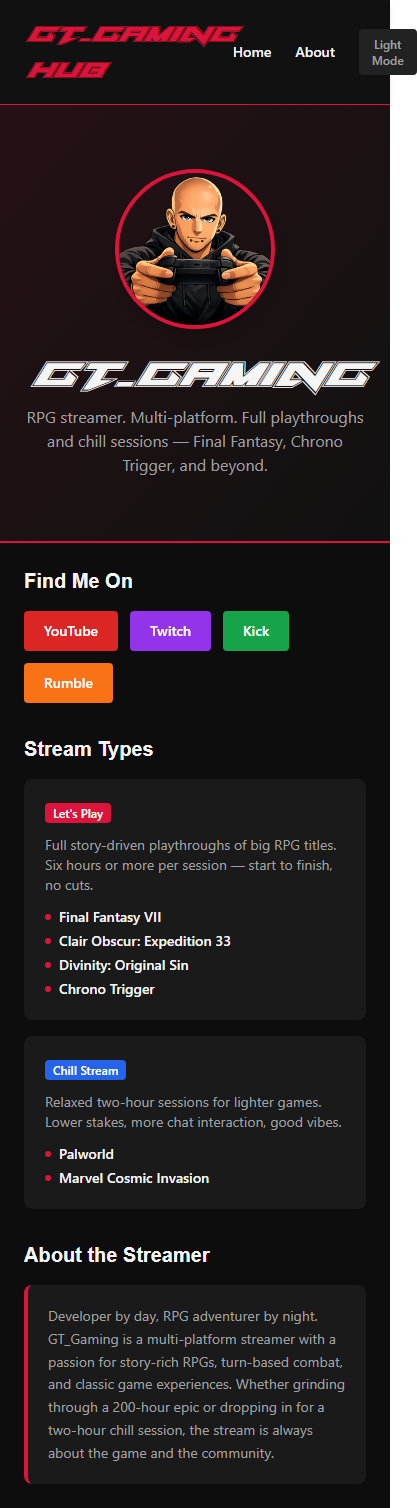
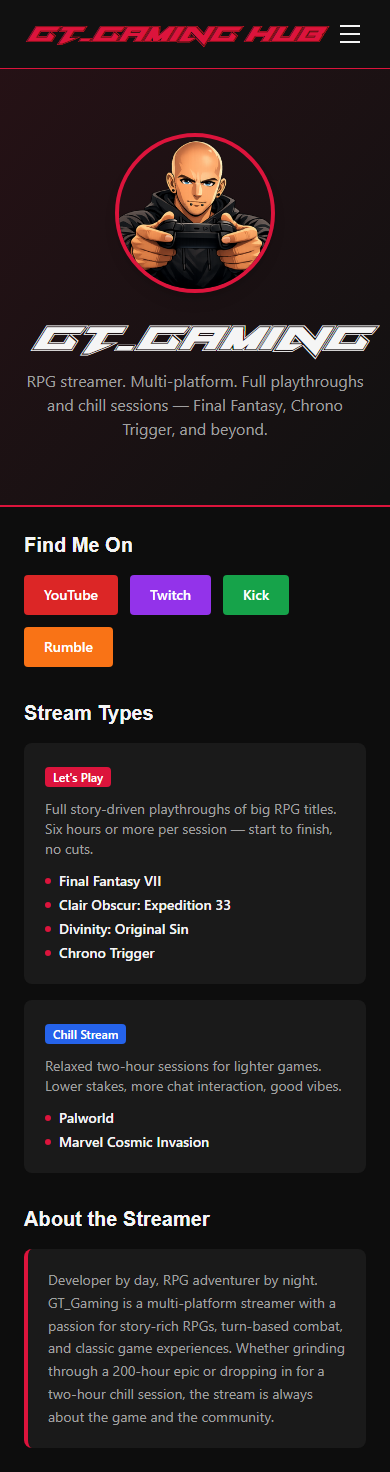
updated screenshots

Changed region(s): [[0.0308, 0.3438, 0.8923, 1.0], [0.0615, 0.0, 1.0, 1.0], [0.0615, 0.0, 0.8308, 0.0625]]

diff --git a/src/app/core/navbar/navbar.html b/src/app/core/navbar/navbar.html
@@ -1,27 +1,80 @@
 <!-- [CL-4.3] Accessibility: <nav> is a semantic landmark — screen readers expose it
      as a navigation region, allowing users to jump directly to it -->
-<nav class="flex items-center justify-between px-6 py-4
-            bg-background-nav dark:bg-background-nav-dark
+<nav class="bg-background-nav dark:bg-background-nav-dark
             text-textPrimary dark:text-textPrimary-dark
             transition-colors duration-300 shadow-md border-b border-primary">
 
-  <!-- Brand -->
-  <a routerLink="/"
-     class="text-3xl font-tarrget italic text-primary
-            hover:opacity-80 transition-opacity duration-200">
-    GT_Gaming Hub
-  </a>
+  <!-- Top bar: brand + desktop links + hamburger -->
+  <!-- [CL-1.2] Responsiveness: justify-between keeps brand and controls at opposite ends -->
+  <div class="flex items-center justify-between px-6 py-4">
 
-  <!-- Nav Links -->
-  <div class="flex items-center gap-6">
+    <!-- Brand -->
+    <a routerLink="/" (click)="closeMenu()"
+       class="text-3xl font-tarrget italic text-primary
+              hover:opacity-80 transition-opacity duration-200">
+      GT_Gaming Hub
+    </a>
+
+    <!-- Desktop nav links — hidden below sm breakpoint -->
+    <!-- [CL-1.2] Responsiveness: hidden on mobile, flex row on sm+ -->
+    <div class="hidden sm:flex items-center gap-6">
+
+      <a routerLink="/" routerLinkActive="text-primary font-bold" [routerLinkActiveOptions]="homeMatchOptions"
+         class="text-sm font-semibold transition-colors duration-200
+                text-textPrimary dark:text-textPrimary-dark hover:text-primary dark:hover:text-primary">
+        Home
+      </a>
+
+      <a routerLink="/about" routerLinkActive="text-primary font-bold"
+         class="text-sm font-semibold transition-colors duration-200
+                text-textPrimary dark:text-textPrimary-dark hover:text-primary dark:hover:text-primary">
+        About
+      </a>
+
+      <!-- Theme Toggle -->
+      <button (click)="toggleTheme()"
+              class="px-3 py-1.5 rounded text-xs font-semibold transition-colors duration-300
+                     bg-surface text-textSecondary-dark hover:border-primary
+                     border border-transparent hover:text-primary">
+        {{ darkMode ? 'Light Mode' : 'Dark Mode' }}
+      </button>
+
+    </div>
+
+    <!-- Hamburger button — visible below sm breakpoint only -->
+    <!-- [CL-4.1] Accessibility: <button> is natively keyboard focusable -->
+    <!-- [CL-4.4] Accessibility: aria-expanded communicates open/closed state to screen readers -->
+    <!-- [CL-1.2] Responsiveness: sm:hidden hides it on desktop -->
+    <button (click)="toggleMenu()"
+            [attr.aria-expanded]="menuOpen()"
+            aria-label="Toggle navigation menu"
+            class="sm:hidden flex flex-col justify-center items-center w-8 h-8 gap-1.5
+                   text-textPrimary dark:text-textPrimary-dark">
+      <!-- Animated hamburger bars — morph into X when menu is open -->
+      <span [ngClass]="menuOpen() ? 'rotate-45 translate-y-2' : ''"
+            class="block w-5 h-0.5 bg-current transition-all duration-200"></span>
+      <span [ngClass]="menuOpen() ? 'opacity-0' : ''"
+            class="block w-5 h-0.5 bg-current transition-all duration-200"></span>
+      <span [ngClass]="menuOpen() ? '-rotate-45 -translate-y-2' : ''"
+            class="block w-5 h-0.5 bg-current transition-all duration-200"></span>
+    </button>
+
+  </div>
+
+  <!-- Mobile dropdown menu — shown when menuOpen, hidden on sm+ -->
+  <!-- [CL-1.2] Responsiveness: sm:hidden ensures this never appears on desktop -->
+  <div *ngIf="menuOpen()"
+       class="sm:hidden flex flex-col gap-4 px-6 pb-5 border-t border-primary/30">
 
     <a routerLink="/" routerLinkActive="text-primary font-bold" [routerLinkActiveOptions]="homeMatchOptions"
-       class="text-sm font-semibold transition-colors duration-200
+       (click)="closeMenu()"
+       class="text-sm font-semibold transition-colors duration-200 pt-4
               text-textPrimary dark:text-textPrimary-dark hover:text-primary dark:hover:text-primary">
       Home
     </a>
 
     <a routerLink="/about" routerLinkActive="text-primary font-bold"
+       (click)="closeMenu()"
        class="text-sm font-semibold transition-colors duration-200
               text-textPrimary dark:text-textPrimary-dark hover:text-primary dark:hover:text-primary">
       About
@@ -29,11 +82,12 @@
 
     <!-- Theme Toggle -->
     <button (click)="toggleTheme()"
-            class="px-3 py-1.5 rounded text-xs font-semibold transition-colors duration-300
+            class="self-start px-3 py-1.5 rounded text-xs font-semibold transition-colors duration-300
                    bg-surface text-textSecondary-dark hover:border-primary
                    border border-transparent hover:text-primary">
       {{ darkMode ? 'Light Mode' : 'Dark Mode' }}
     </button>
 
   </div>
+
 </nav>

diff --git a/src/app/core/navbar/navbar.ts b/src/app/core/navbar/navbar.ts
@@ -1,15 +1,18 @@
-import { Component } from '@angular/core';
+import { Component, signal } from '@angular/core';
+import { NgIf, NgClass } from '@angular/common';
 import { RouterLink, RouterLinkActive } from '@angular/router';
 
 @Component({
   selector: 'app-navbar',
   standalone: true,
-  imports: [RouterLink, RouterLinkActive],
+  imports: [NgIf, NgClass, RouterLink, RouterLinkActive],
   templateUrl: './navbar.html',
   styleUrls: ['./navbar.css'],
 })
 export class Navbar {
   darkMode = true;
+  // [CL-1.2] Responsiveness: signal drives the mobile menu open/close state
+  menuOpen = signal(false);
   readonly homeMatchOptions = { exact: true };
 
   toggleTheme() {
@@ -19,5 +22,13 @@ export class Navbar {
     } else {
       document.documentElement.classList.remove('dark');
     }
+  }
+
+  toggleMenu() {
+    this.menuOpen.update(v => !v);
+  }
+
+  closeMenu() {
+    this.menuOpen.set(false);
   }
 }
